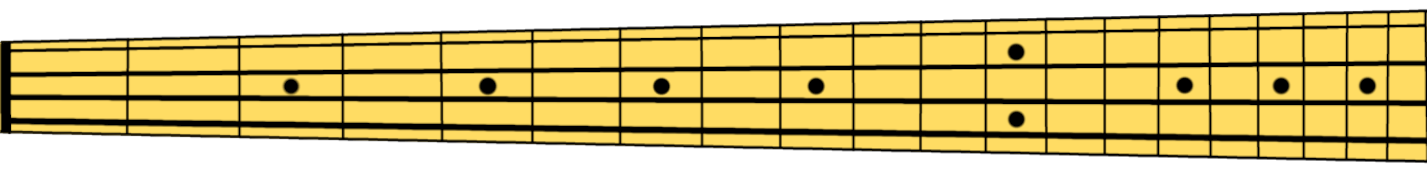
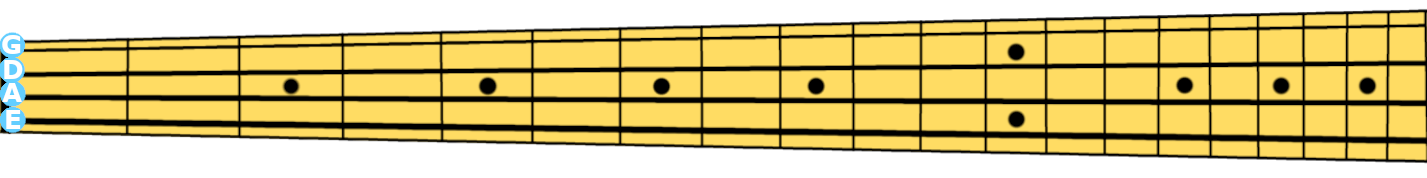
proper bass guitar neck display

Changed region(s): [[0.0, 0.1685, 0.0308, 0.7584]]

diff --git a/scripts/bass.js b/scripts/bass.js
@@ -10,3 +10,80 @@ toggleBassButton.addEventListener('click', function () {
         bassContainer.style.display = 'none';
     }
 });
+
+// create an event listener and displays or hides specific notes for each string
+function handleCheckboxChange(checkboxId, imageId) {
+    const checkbox = document.getElementById(checkboxId);
+    const stringImage = document.getElementById(imageId);
+    checkbox.addEventListener('change', function () {
+        stringImage.style.display = checkbox.checked ? "inline" : "none";
+    });
+}
+
+handleCheckboxChange("stringEBassCheckboxToggle", "1st-bass-wholes");
+handleCheckboxChange("stringEBassCheckboxToggle2", "1st-bass-sharps");
+handleCheckboxChange("stringABassCheckboxToggle", "2nd-bass-wholes");
+handleCheckboxChange("stringABassCheckboxToggle2", "2nd-bass-sharps");
+handleCheckboxChange("stringDBassCheckboxToggle", "3rd-bass-wholes");
+handleCheckboxChange("stringDBassCheckboxToggle2", "3rd-bass-sharps");
+handleCheckboxChange("stringGBassCheckboxToggle", "4th-bass-wholes");
+handleCheckboxChange("stringGBassCheckboxToggle2", "4th-bass-sharps");
+
+function toggleVisibility(noteType, checkbox) {
+    var notesImages = document.getElementsByClassName("notes-image");
+    for (var i = 0; i < notesImages.length; i++) {
+        if (notesImages[i].id.includes(noteType)) {
+            notesImages[i].style.display = checkbox.checked ? "inline-block" : "none";
+        }
+    }
+}
+
+
+
+
+
+{/* <nav class="option7t">
+<input type="checkbox" id="toggleWholeBassCheckbox" onchange="toggleAndCheckBass(this)" checked>
+<label for="toggleWholeBassCheckbox"></label>
+
+<input type="checkbox" id="toggleSharpBassCheckbox" onchange="toggleAndCheckBass2(this)" checked>
+<label for="toggleSharpBassCheckbox"></label>
+</nav> */}
+
+
+
+
+
+
+
+
+
+function toggleAllBassCheckboxes(checkbox) {
+    var otherCheckboxes = document.querySelectorAll('[id^="bass"]:not([id*="2"])');
+
+    otherCheckboxes.forEach(function (cb) {
+        if (cb !== checkbox) {
+            cb.checked = checkbox.checked;
+        }
+    });
+}
+
+function toggleAndCheckBass(checkbox) {
+    toggleVisibility('bass-wholes', checkbox);
+    toggleAllBassCheckboxes(checkbox);
+}
+
+function toggleAllCheckboxes2(checkbox) {
+    var otherCheckboxes = document.querySelectorAll('[id^="bass"][id*="2"]');
+
+    otherCheckboxes.forEach(function (cb) {
+        if (cb !== checkbox) {
+            cb.checked = checkbox.checked;
+        }
+    });
+}
+
+function toggleAndCheckBass2(checkbox) {
+    toggleVisibility('bass-sharps', checkbox);
+    toggleAllbassCheckboxes2(checkbox);
+}

diff --git a/index.html b/index.html
@@ -183,6 +183,46 @@
 
   <div class="bass" id="bass-container" style="display: none;">
     <img src="img/bass.png" alt="bass">
+    <img class="notes-image" src="img/4th-bass-wholes.png" alt="4th-bass-wholes" id="4th-bass-wholes">
+    <img class="notes-image" src="img/4th-bass-sharps.png" alt="4th-bass-sharps" id="4th-bass-sharps">
+    <img class="notes-image" src="img/3rd-bass-wholes.png" alt="3rd-bass-wholes" id="3rd-bass-wholes">
+    <img class="notes-image" src="img/3rd-bass-sharps.png" alt="3rd-bass-sharps" id="3rd-bass-sharps">
+    <img class="notes-image" src="img/2nd-bass-wholes.png" alt="2nd-bass-wholes" id="2nd-bass-wholes">
+    <img class="notes-image" src="img/2nd-bass-sharps.png" alt="2nd-bass-sharps" id="2nd-bass-sharps">
+    <img class="notes-image" src="img/1st-bass-wholes.png" alt="1st-bass-wholes" id="1st-bass-wholes">
+    <img class="notes-image" src="img/1st-bass-sharps.png" alt="1st-bass-sharps" id="1st-bass-sharps">
+    <nav class="option7b">
+      <input type="checkbox" id="toggleWholeBassCheckbox" onchange="toggleAndCheckBass(this)" checked>
+      <label for="toggleWholeBassCheckbox"></label>
+
+      <input type="checkbox" id="toggleSharpBassCheckbox" onchange="toggleAndCheckBass2(this)" checked>
+      <label for="toggleSharpBassCheckbox"></label>
+    </nav>
+    <nav class="option4b">
+      <input type="checkbox" id="stringGBassCheckboxToggle" checked>
+      <label for="stringGBassCheckboxToggle"></label>
+      <input type="checkbox" id="stringGBassCheckboxToggle2" checked>
+      <label for="stringGBassCheckboxToggle2"></label>
+    </nav>
+    <nav class="option3b">
+      <input type="checkbox" id="stringDBassCheckboxToggle" checked>
+      <label for="stringDBassCheckboxToggle"></label>
+      <input type="checkbox" id="stringDBassCheckboxToggle2" checked>
+      <label for="stringDBassCheckboxToggle2"></label>
+    </nav>
+    <nav class="option2b">
+      <input type="checkbox" id="stringABassCheckboxToggle" checked>
+      <label for="stringABassCheckboxToggle"></label>
+      <input type="checkbox" id="stringABassCheckboxToggle2" checked>
+      <label for="stringABassCheckboxToggle2"></label>
+    </nav>
+    <nav class="option1b">
+      <input type="checkbox" id="stringEBassCheckboxToggle" checked>
+      <label for="stringEBassCheckboxToggle"></label>
+      <input type="checkbox" id="stringEBassCheckboxToggle2" checked>
+      <label for="stringEBassCheckboxToggle2"></label>
+    </nav>
+    <div class="cheatsheet">Spis dźwięków na gryfie</div>
   </div>
 
 

diff --git a/styles/bass.css b/styles/bass.css
@@ -1,11 +1,56 @@
 .bass {
-    /* width: 20px; */
+    width: 20px;
     /* display: none; */
     position: relative;
 }
 
 .bass img {
     position: absolute;
-    /* top: 0; */
-    /* left: 40px; */
+    top: 0;
+    left: 40px;
+}
+
+.notes-image {
+    position: absolute;
+    top: 0;
+    left: 0;
+    /* display: none; */
+}
+
+.option1b,
+.option2b,
+.option3b,
+.option4b,
+.option7b {
+    display: flex;
+    position: absolute;
+
+}
+
+.option1b {
+    top: 112px;
+}
+
+.option2b {
+    top: 88px;
+}
+
+.option3b {
+    top: 65px;
+}
+
+.option4b {
+    top: 40px;
+}
+
+.option7b {
+    top: 5px;
+}
+
+.cheatsheet {
+    position: absolute;
+    left: 50px;
+   top: 0px;
+   font-size: 20px;
+   width: 300px;
 }
